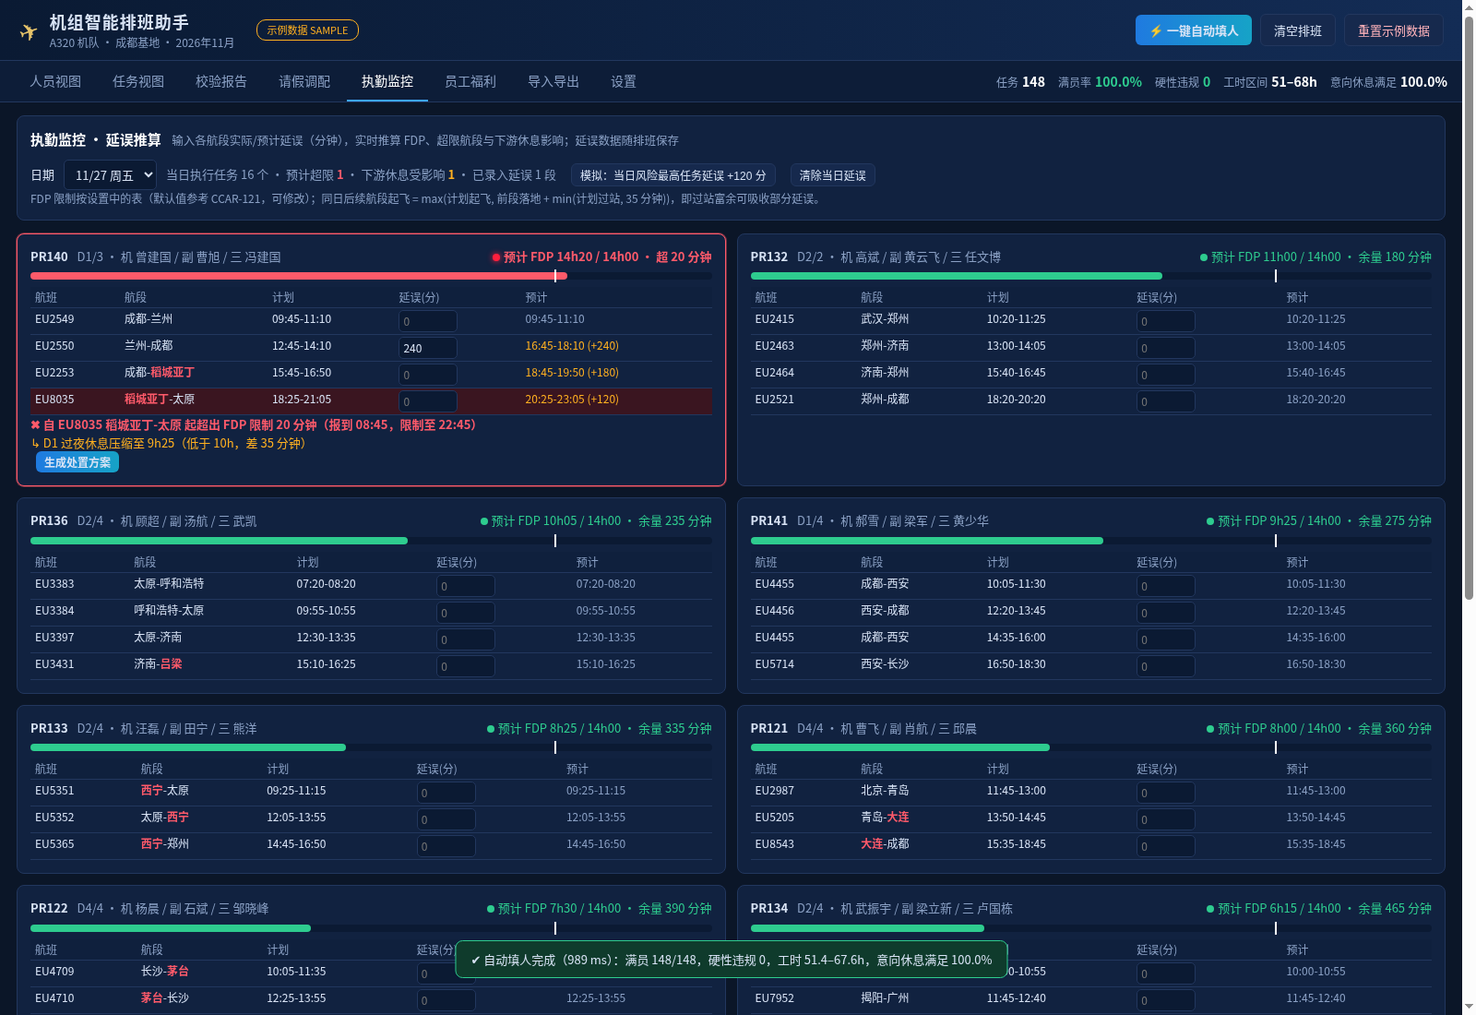
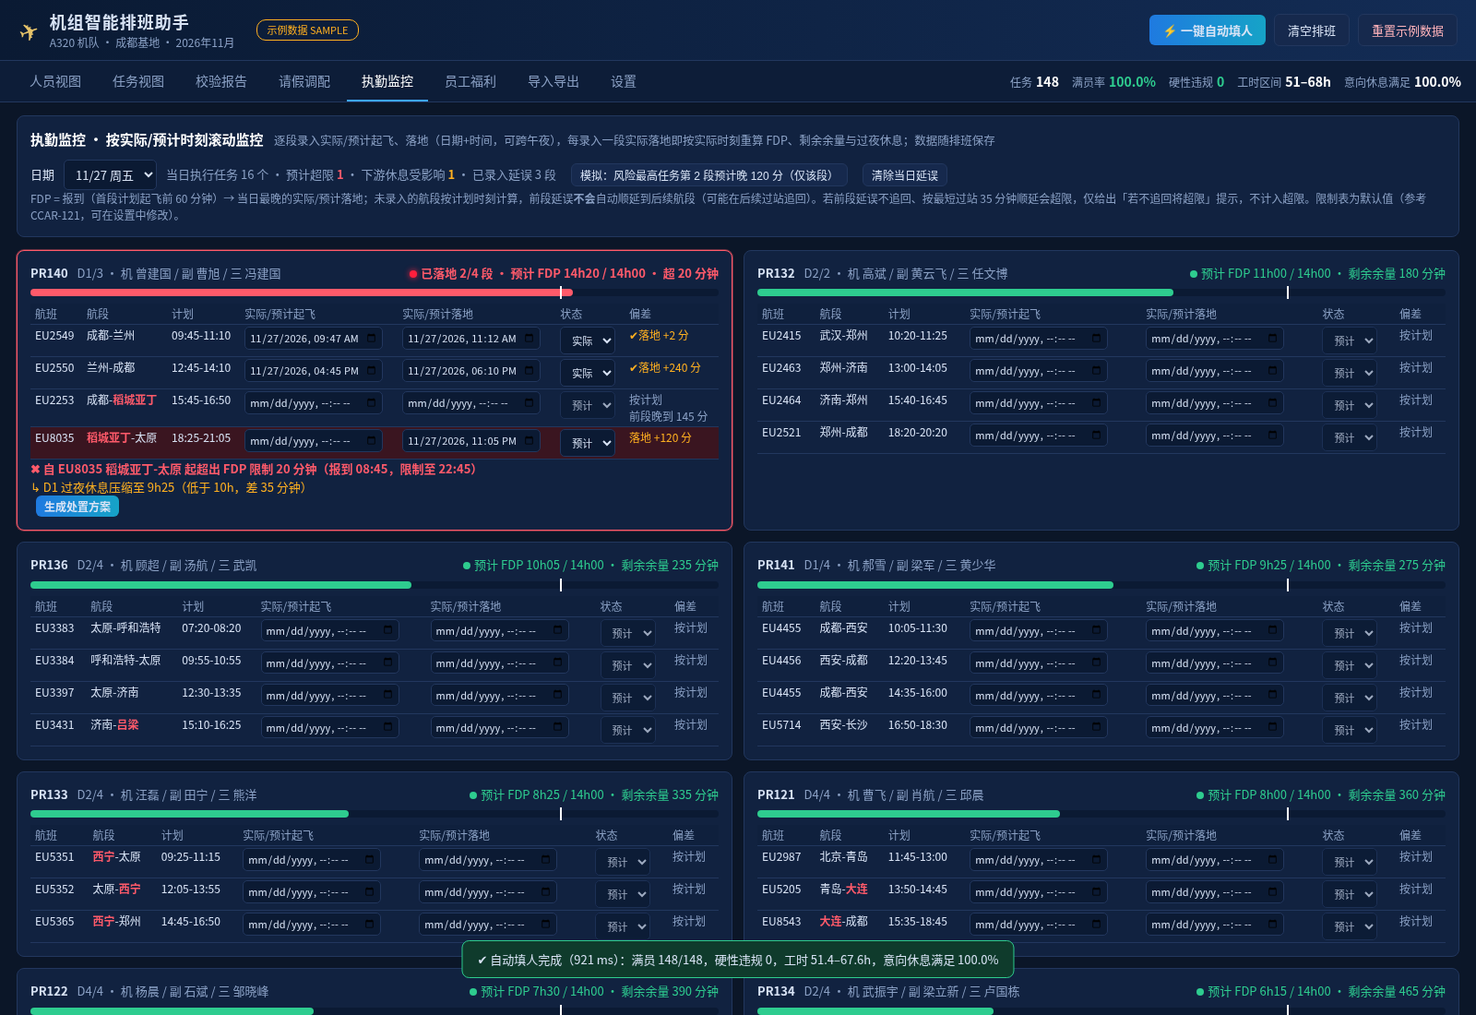
执勤监控改为按实际/预计起飞落地时刻滚动监控，不再级联延误；迁移旧延误数据

Changed region(s): [[0.0, 0.0, 1.0, 1.0]]

diff --git a/js/app.js b/js/app.js
@@ -12,7 +12,7 @@
   const CW_MIN = 6, CW_MAX = 240, BASE_CW = 150;
   const ZSTEPS = [4, 5, 6, 8, 10, 12, 15, 20, 25, 30, 40, 50, 67, 80, 90, 100, 110, 125, 150, 160];
 
-  function load() { try { const s = JSON.parse(localStorage.getItem(KEY)); if (s && s.pilots) { st = s; st.settings = Object.assign(C.defaultSettings(), st.settings); C.migrateSettings(st.settings); return; } } catch (e) {} reset(false); }
+  function load() { try { const s = JSON.parse(localStorage.getItem(KEY)); if (s && s.pilots) { st = s; st.settings = Object.assign(C.defaultSettings(), st.settings); C.migrateSettings(st.settings); C.migrateDelays(st); return; } } catch (e) {} reset(false); }
   function save() { try { localStorage.setItem(KEY, JSON.stringify(st)); } catch (e) {} }
   function reset(r) { st = C.generateSample(); lastSolveMs = null; save(); if (r) refresh(); }
   function refresh() { sum = C.summarize(st); renderKpis(); render(); save(); }
@@ -77,7 +77,7 @@
       for (const pr of idx.sched[p.id]) {
         const slot = ['C', 'F', 'T'].find(s => pr.crew[s] === p.id);
         const gap = cw >= 20 ? 2 : 0.5; const left = nw + (pr.start - 1) * cw + gap, w = Math.max(1, pr.ndays * cw - 2 * gap);
-        const rk = C.pairingRisk(pr, st, st.delays && Object.keys(st.delays).length ? st.delays : null); const rb = RISK_BADGE[rk.risk];
+        const rk = C.pairingRisk(pr, st, st.actuals && Object.keys(st.actuals).length ? st.actuals : null); const rb = RISK_BADGE[rk.risk];
         const badge = rb ? `<span class="rbadge r-${rk.risk}" title="执勤风险：${rb[1]} · D${rk.worst.d} FDP ${C.fmtH(rk.worst.fdp)} / 限制 ${C.fmtH(rk.worst.limit)} · 余量 ${rk.worst.buffer} 分钟">${rb[0]}</span>` : '';
         let inner = '';
         if (lvl === 'full') { const ch = dayChains(pr); inner = `<div class="bh">${badge}${pr.id} [${C.SLOT_NAME[slot]}] ${crewTxt(pr, m)}</div><div style="display:flex">${ch.map(c => `<div class="lg" style="width:${cw - 4}px;white-space:normal;max-height:42px">${c.html}<br><span class="mut" style="color:#b9cbe8">${c.ls.map(l => l.flt).join(' ')}</span></div>`).join('')}</div>`; }
@@ -227,24 +227,28 @@
 
   // ---------------- 执勤监控（延误 / 超执勤） ----------------
   let dutyDate = null, dutyOpts = null;
+  const p2 = n => String(n).padStart(2, '0');
+  function toDT(m) { const d = new Date(C.YEAR, C.MONTH - 1, 1, 0, m); return `${d.getFullYear()}-${p2(d.getMonth() + 1)}-${p2(d.getDate())}T${p2(d.getHours())}:${p2(d.getMinutes())}`; }
+  function fromDT(v) { if (!v) return null; const t = new Date(v); if (isNaN(t)) return null; return Math.round((t - new Date(C.YEAR, C.MONTH - 1, 1)) / 60000); }
   function rDuty() {
-    const S = st.settings; st.delays = st.delays || {};
+    const S = st.settings; C.migrateDelays(st); const A = st.actuals;
     if (!dutyDate) { const r = C.fdpRiskSummary(st).rows[0]; dutyDate = r ? r.date : 1; }
     const mon = C.dutyMonitor(st, dutyDate); const m = pm();
     const nEx = mon.filter(x => x.exceed).length, nDn = mon.filter(x => x.downstream.length).length;
-    const dl = Object.keys(st.delays).length;
-    let h = `<div class="panel"><h3>执勤监控 · 延误推算 <small>输入各航段实际/预计延误（分钟），实时推算 FDP、超限航段与下游休息影响；延误数据随排班保存</small></h3>
+    const dl = Object.keys(A).length;
+    let h = `<div class="panel"><h3>执勤监控 · 按实际/预计时刻滚动监控 <small>逐段录入实际/预计起飞、落地（日期+时间，可跨午夜），每录入一段实际落地即按实际时刻重算 FDP、剩余余量与过夜休息；数据随排班保存</small></h3>
       <div class="flex" style="flex-wrap:wrap"><span>日期</span><select id="dtD">${Array.from({ length: C.DAYS }, (_, i) => `<option value="${i + 1}" ${i + 1 === dutyDate ? 'selected' : ''}>11/${String(i + 1).padStart(2, '0')} 周${WK[dow(i + 1)]}</option>`).join('')}</select>
       <span class="mut">当日执行任务 ${mon.length} 个 · 预计超限 <b class="${nEx ? 'red' : 'okc'}">${nEx}</b> · 下游休息受影响 <b class="${nDn ? 'warnc' : 'okc'}">${nDn}</b> · 已录入延误 ${dl} 段</span>
-      <button class="btn sm" id="dtSim">模拟：当日风险最高任务延误 +120 分</button><button class="btn sm" id="dtClr">清除当日延误</button>${leaveHist.length ? `<button class="btn sm" id="dtUndo">↶ 撤销（${leaveHist.length}）</button>` : ''}</div>
-      <div class="note">FDP 限制按设置中的表（默认值参考 CCAR-121，可修改）；同日后续航段起飞 = max(计划起飞, 前段落地 + min(计划过站, ${S.minTurnMin} 分钟))，即过站富余可吸收部分延误。</div></div>`;
+      <button class="btn sm" id="dtSim">模拟：风险最高任务第 2 段预计晚 120 分（仅该段）</button><button class="btn sm" id="dtClr">清除当日延误</button>${leaveHist.length ? `<button class="btn sm" id="dtUndo">↶ 撤销（${leaveHist.length}）</button>` : ''}</div>
+      <div class="note">FDP = 报到（首段计划起飞前 ${S.reportMin} 分钟）→ 当日最晚的实际/预计落地；未录入的航段按计划时刻计算，前段延误<b>不会</b>自动顺延到后续航段（可能在后续过站追回）。若前段延误不追回、按最短过站 ${S.minTurnMin} 分钟顺延会超限，仅给出「若不追回将超限」提示，不计入超限。限制表为默认值（参考 CCAR-121，可在设置中修改）。</div></div>`;
     h += `<div class="dutyg">${mon.map(x => { const dy = x.day; const pr = x.pr; const pct = Math.min(130, dy.fdp / dy.limit * 100);
       return `<div class="panel dutyc ${x.exceed ? 'dex' : ''}"><div class="flex"><b>${pr.id}</b><span class="mut">D${dy.d}/${pr.ndays} · ${crewTxt(pr, m)}</span>
-        <span style="margin-left:auto" class="${{ over: 'red', high: 'red', med: 'warnc', low: 'okc' }[dy.risk]}"><span class="rdot r-${dy.risk}"></span>预计 FDP ${C.fmtH(dy.fdp)} / ${C.fmtH(dy.limit)} · ${dy.exceed ? '超 ' + dy.exceed + ' 分钟' : '余量 ' + dy.buffer + ' 分钟'}</span></div>
+        <span style="margin-left:auto" class="${{ over: 'red', high: 'red', med: 'warnc', low: 'okc' }[dy.risk]}"><span class="rdot r-${dy.risk}"></span>${dy.nLanded ? `已落地 ${dy.nLanded}/${dy.legs.length} 段 · ` : ''}预计 FDP ${C.fmtH(dy.fdp)} / ${C.fmtH(dy.limit)} · ${dy.exceed ? '超 ' + dy.exceed + ' 分钟' : '剩余余量 ' + dy.buffer + ' 分钟'}</span></div>
         <div class="fdpbar"><i style="width:${pct / 1.3}%" class="r-${dy.risk}"></i><b style="left:${100 / 1.3}%"></b></div>
-        <table class="dlt"><tr><th>航班</th><th>航段</th><th>计划</th><th>延误(分)</th><th>预计</th></tr>${dy.legs.map(l => `<tr class="${dy.exLeg && l.i >= dy.exLeg.i ? 'exrow' : ''}"><td>${l.leg.flt}</td><td>${apHtml(l.leg.from)}-${apHtml(l.leg.to)}</td><td>${C.fmtT(l.leg.dep)}-${C.fmtT(l.leg.arr)}</td>
-          <td><input type="number" min="0" step="5" class="dlin" data-k="${C.legKey(l.leg)}" value="${l.dly || ''}" placeholder="0"></td><td class="${l.late ? 'warnc' : 'mut'}">${C.fmtT(l.dep)}-${C.fmtT(l.arr)}${l.late ? ' (+' + l.late + ')' : ''}</td></tr>`).join('')}</table>
+        <table class="dlt"><tr><th>航班</th><th>航段</th><th>计划</th><th>实际/预计起飞</th><th>实际/预计落地</th><th>状态</th><th>偏差</th></tr>${dy.legs.map(l => { const k = C.legKey(l.leg); const a = A[k] || {}; return `<tr class="${dy.exLeg && l.arr > dy.start + dy.limit ? 'exrow' : ''}"><td>${l.leg.flt}</td><td>${apHtml(l.leg.from)}-${apHtml(l.leg.to)}</td><td>${C.fmtT(l.leg.dep)}-${C.fmtT(l.leg.arr)}</td>
+          <td><input type="datetime-local" class="atin" data-k="${k}" data-f="dep" value="${a.dep != null ? toDT(a.dep) : ''}" placeholder="${toDT(l.leg.dep)}"></td><td><input type="datetime-local" class="atin" data-k="${k}" data-f="arr" value="${a.arr != null ? toDT(a.arr) : ''}"></td><td><select class="atkind" data-k="${k}" ${l.known ? '' : 'disabled'}><option value="est" ${a.kind !== 'act' ? 'selected' : ''}>预计</option><option value="act" ${a.kind === 'act' ? 'selected' : ''}>实际</option></select></td><td class="${l.known ? (l.lateArr > 0 ? 'warnc' : 'okc') : 'mut'}">${l.known ? `${l.landed ? '✔' : ''}落地 ${l.lateArr >= 0 ? '+' : ''}${l.lateArr} 分` : '按计划'}${l.conflict ? `<div class="mut" title="前段落地晚于本段计划起飞">前段晚到 ${l.conflict} 分</div>` : ''}</td></tr>`; }).join('')}</table>
         ${dy.exLeg ? `<div class="red">✖ 自 ${dy.exLeg.leg.flt} ${C.apName(dy.exLeg.leg.from, st)}-${C.apName(dy.exLeg.leg.to, st)} 起超出 FDP 限制 ${dy.exceed} 分钟（报到 ${C.fmtT(dy.start)}，限制至 ${C.fmtT(dy.start + dy.limit)}）</div>` : ''}
+        ${dy.cascExceed ? `<div class="mut">ⓘ 若不追回将超限：前段延误按最短过站顺延，预计 ${dy.cascLeg.leg.flt} 落地 ${C.fmtT(dy.cascLeg.carr)}，超 ${dy.cascExceed} 分钟（提示，不计入超限）</div>` : ''}
         ${x.downstream.map(d => `<div class="warnc">↳ ${d.overnight ? `D${d.d} 过夜休息压缩至 ${C.fmtH(d.restAfter)}（低于 ${S.minOvernightRestH}h，差 ${d.short} 分钟）` : `${esc(m[d.pilot].name)} 下一任务 ${d.next} 前休息仅 ${C.fmtH(d.gap)}（低于 ${S.minRestH}h，差 ${d.short} 分钟）`}</div>`).join('')}
         ${x.exceed || x.downstream.length ? `<button class="btn sm ${x.exceed ? 'primary' : ''} dtGo" data-pr="${pr.id}">生成处置方案</button>` : ''}</div>`; }).join('') || '<div class="note">当日无执行任务</div>'}</div>`;
     const o = dutyOpts;
@@ -253,9 +257,10 @@
       <div class="panel"><h3>影响预览 <small>悬停/点选方案：绿=新增任务 · 橙=被调整任务 · 红虚线=移出</small></h3><div id="mgBox">${miniGantt(o.solutions[cardCtx.hover])}</div></div>`;
     $('#main').innerHTML = h;
     $('#dtD').onchange = e => { dutyDate = +e.target.value; dutyOpts = null; rDuty(); };
-    document.querySelectorAll('.dlin').forEach(i => i.onchange = () => { const v = Math.max(0, +i.value || 0); if (v) st.delays[i.dataset.k] = v; else delete st.delays[i.dataset.k]; dutyOpts = null; save(); sum = C.summarize(st); renderKpis(); rDuty(); });
-    $('#dtClr').onclick = () => { mon.forEach(x => x.day.legs.forEach(l => delete st.delays[C.legKey(l.leg)])); dutyOpts = null; save(); rDuty(); };
-    $('#dtSim').onclick = () => { const x = mon.slice().sort((a, b) => a.day.buffer - b.day.buffer)[0]; if (!x) return; const l = x.day.legs[Math.min(1, x.day.legs.length - 1)]; st.delays[C.legKey(l.leg)] = (st.delays[C.legKey(l.leg)] || 0) + 120; dutyOpts = null; save(); rDuty(); };
+    document.querySelectorAll('.atin').forEach(i => i.onchange = () => { const k = i.dataset.k; const a = A[k] = A[k] || { kind: 'est' }; const v = fromDT(i.value); if (v == null) delete a[i.dataset.f]; else a[i.dataset.f] = v; if (a.dep == null && a.arr == null) delete A[k]; dutyOpts = null; save(); sum = C.summarize(st); renderKpis(); rDuty(); });
+    document.querySelectorAll('.atkind').forEach(i => i.onchange = () => { if (A[i.dataset.k]) A[i.dataset.k].kind = i.value; save(); rDuty(); });
+    $('#dtClr').onclick = () => { mon.forEach(x => x.day.legs.forEach(l => delete A[C.legKey(l.leg)])); dutyOpts = null; save(); rDuty(); };
+    $('#dtSim').onclick = () => { const x = mon.slice().sort((a, b) => a.day.buffer - b.day.buffer)[0]; if (!x) return; const l = x.day.legs[Math.min(1, x.day.legs.length - 1)]; A[C.legKey(l.leg)] = { dep: l.dep + 120, arr: l.arr + 120, kind: 'est' }; dutyOpts = null; save(); rDuty(); };
     if ($('#dtUndo')) $('#dtUndo').onclick = undoLeave;
     document.querySelectorAll('.dtGo').forEach(b => b.onclick = () => { dutyOpts = C.fdpOptions(st, b.dataset.pr); const i = dutyOpts.solutions.findIndex(x => x.recommended);
       cardCtx = { hover: i < 0 ? 0 : i, focus: Object.values(dutyOpts.pairing.crew).filter(Boolean), days: dutyOpts.days.map(d => d.date) }; rDuty(); const e = $('#dtSol'); if (e) e.scrollIntoView(); });

diff --git a/js/core.js b/js/core.js
@@ -744,29 +744,48 @@
     const row = T.find(r => h >= r.from && h < r.to) || T[T.length - 1]; const c = nLegs <= 4 ? 0 : nLegs === 5 ? 1 : nLegs === 6 ? 2 : 3;
     return row.lim[c] * 60;
   }
-  // 逐日 FDP（含延误推算）。delays: { legKey: 分钟 }；pr.freshAt=legKey 表示该段起新机组按实际起飞前报到
-  function fdpDays(pr, st, delays) {
-    delays = delays || {}; const S = st.settings; const rep = S.reportMin || 60, rel = S.releaseMin || 30, turn = S.minTurnMin || 35;
-    const out = []; let prev = null;
-    pr.legs.forEach((l, i) => { const dly = Math.max(0, +delays[legKey(l)] || 0);
-      let dep = l.dep + dly;
-      if (prev && prev.leg.d === l.d) dep = Math.max(dep, prev.arr + Math.min(turn, l.dep - prev.leg.arr));
-      const x = { i, leg: l, dly, dep, arr: dep + (l.arr - l.dep), late: dep - l.dep };
+  // 逐日 FDP（按实际/预计时刻，不做延误级联）。
+  // acts: { legKey: { dep?:分钟, arr?:分钟, kind:'est'|'act' } }（分钟自 11/01 00:00，可跨午夜）。
+  // 未录入的航段按计划时刻；录入起飞未录落地时，落地 = 起飞 + 计划轮挡。pr.freshAt=legKey：新机组自该段（实际/预计）起飞前报到。
+  // 另算“若不追回”的级联推算（cascEnd/cascExceed），仅作提示，不计入超限。
+  function fdpDays(pr, st, acts) {
+    acts = acts || {}; const S = st.settings; const rep = S.reportMin || 60, rel = S.releaseMin || 30, turn = S.minTurnMin || 35;
+    const out = []; let prevC = null;
+    pr.legs.forEach((l, i) => { const a = acts[legKey(l)] || {}; const blk = l.arr - l.dep;
+      const dep = a.dep != null ? a.dep : l.dep; const arr = a.arr != null ? a.arr : (a.dep != null ? a.dep + blk : l.arr);
+      const known = a.dep != null || a.arr != null;
+      // 级联（不追回）推算：录入值优先，否则受前段级联落地 + 最短过站约束
+      let cdep = known ? dep : l.dep; if (!known && prevC && prevC.leg.d === l.d) cdep = Math.max(cdep, prevC.carr + Math.min(turn, l.dep - prevC.leg.arr));
+      const carr = known ? arr : cdep + blk;
+      const x = { i, leg: l, dep, arr, known, kind: known ? (a.kind || 'est') : 'plan', landed: a.arr != null && a.kind === 'act', departed: a.dep != null && a.kind === 'act',
+        late: dep - l.dep, lateArr: arr - l.arr, cdep, carr, conflict: prevC && prevC.leg.d === l.d && dep < prevC.arr && !known ? prevC.arr - dep : 0 };
+      x.dly = Math.max(0, x.late); // 兼容
       let day = out[out.length - 1]; if (!day || day.d !== l.d) { day = { d: l.d, legs: [] }; out.push(day); }
-      day.legs.push(x); prev = x; });
+      day.legs.push(x); prevC = x; });
     out.forEach((dy, k) => { const f = dy.legs[0];
       dy.date = Math.floor(f.leg.dep / DAY) + 1;
       dy.start = (pr.freshAt && pr.freshAt === legKey(f.leg)) ? f.dep - rep : f.leg.dep - rep;
-      dy.end = dy.legs[dy.legs.length - 1].arr; dy.planEnd = dy.legs[dy.legs.length - 1].leg.arr;
+      dy.end = Math.max(...dy.legs.map(x => x.arr)); dy.planEnd = dy.legs[dy.legs.length - 1].leg.arr;
+      dy.cascEnd = Math.max(...dy.legs.map(x => x.carr));
       dy.fdp = dy.end - dy.start; dy.planFdp = dy.planEnd - (f.leg.dep - rep);
       dy.limit = fdpLimit(st, f.leg.dep - rep, dy.legs.length); dy.buffer = dy.limit - dy.fdp; dy.planBuffer = dy.limit - dy.planFdp;
       dy.exceed = Math.max(0, -dy.buffer);
+      dy.cascExceed = dy.exceed ? 0 : Math.max(0, dy.cascEnd - dy.start - dy.limit);
+      dy.cascLeg = dy.cascExceed ? dy.legs.find(x => x.carr > dy.start + dy.limit) : null;
       dy.exLeg = dy.exceed ? dy.legs.find(x => x.arr > dy.start + dy.limit) : null;
+      dy.nLanded = dy.legs.filter(x => x.landed).length; dy.nKnown = dy.legs.filter(x => x.known).length;
       dy.risk = dy.buffer < 0 ? 'over' : dy.buffer < (S.fdpRiskHigh || 60) ? 'high' : dy.buffer < (S.fdpRiskMed || 120) ? 'med' : 'low';
       dy.planRisk = dy.planBuffer < 0 ? 'over' : dy.planBuffer < (S.fdpRiskHigh || 60) ? 'high' : dy.planBuffer < (S.fdpRiskMed || 120) ? 'med' : 'low';
       const nx = out[k + 1]; if (nx) { const req = (S.minOvernightRestH || 10) * 60; dy.restAfter = (nx.legs[0].dep - rep) - (dy.end + rel); dy.planRest = (nx.legs[0].leg.dep - rep) - (dy.planEnd + rel);
         dy.restShort = dy.restAfter < dy.planRest ? Math.max(0, req - dy.restAfter) : 0; dy.planRestShort = Math.max(0, req - dy.planRest); } });
     return out;
+  }
+  // 旧版 st.delays {legKey: 分钟} → st.actuals：仅对该段本身设预计起飞/落地（不再级联）
+  function migrateDelays(st) {
+    if (!st.delays) { st.actuals = st.actuals || {}; return st; }
+    st.actuals = st.actuals || {}; const legs = {}; st.pairings.forEach(p => p.legs.forEach(l => legs[legKey(l)] = l));
+    Object.keys(st.delays).forEach(k => { const v = +st.delays[k] || 0; const l = legs[k]; if (l && v > 0 && !st.actuals[k]) st.actuals[k] = { dep: l.dep + v, arr: l.arr + v, kind: 'est' }; });
+    delete st.delays; return st;
   }
   const RISK_ORDER = { over: 0, high: 1, med: 2, low: 3 };
   function pairingRisk(pr, st, delays) { const ds = fdpDays(pr, st, delays); const w = ds.slice().sort((a, b) => RISK_ORDER[delays ? a.risk : a.planRisk] - RISK_ORDER[delays ? b.risk : b.planRisk] || a.buffer - b.buffer)[0];
@@ -788,7 +807,7 @@
     return out;
   }
   function dutyMonitor(st, date) {
-    const delays = st.delays || {}; const idx = buildIndex(st); const res = [];
+    const delays = st.actuals || {}; const idx = buildIndex(st); const res = [];
     for (const pr of st.pairings) { const ds = fdpDays(pr, st, delays); const dy = ds.find(x => x.date === date); if (!dy) continue;
       const dn = downstream(st, pr, ds, idx).filter(x => !x.overnight || x.d >= dy.d);
       res.push({ pr, day: dy, days: ds, downstream: dn, exceed: ds.some(x => x.exceed > 0 && x.date >= date) }); }
@@ -804,7 +823,7 @@
     pr.freshAt = legKey(pr.legs[0]); return { A: null, B: pr };
   }
   function fdpOptions(st, prId, opt) {
-    opt = opt || {}; const t0 = Date.now(); const delays = st.delays || {};
+    opt = opt || {}; const t0 = Date.now(); const delays = st.actuals || {};
     const pr0 = st.pairings.find(p => p.id === prId); if (!pr0) return null;
     const ds0 = fdpDays(pr0, st, delays); const idx0 = buildIndex(st);
     const ex = ds0.find(x => x.exceed > 0) || null; const dn0 = downstream(st, pr0, ds0, idx0);
@@ -853,7 +872,7 @@
     sol.fdpAfter = ex; sol.restAfterV = rv; sol.score = Math.round((sol.score + ex * 800 + rv * 300) * 10) / 10;
   }
 
-  return { fdpDays, fdpLimit, fdpRiskSummary, pairingRisk, dutyMonitor, fdpOptions, splitPairing, legKey, fmtH, LEG_COLS, defaultFdpTable, leaveOptions, migrateSettings, YEAR, MONTH, DAYS, DAY, RANKS, RANK_VAL, NEW_CAPT, INSTR, GROUPS, AIRPORTS, CAT_DESC, AUTH_CATS,
+  return { migrateDelays, fdpDays, fdpLimit, fdpRiskSummary, pairingRisk, dutyMonitor, fdpOptions, splitPairing, legKey, fmtH, LEG_COLS, defaultFdpTable, leaveOptions, migrateSettings, YEAR, MONTH, DAYS, DAY, RANKS, RANK_VAL, NEW_CAPT, INSTR, GROUPS, AIRPORTS, CAT_DESC, AUTH_CATS,
     isFO, isCaptClass, isInstr, isNew, rankGroup, seatOK, catOK, apName, apCat, needsAuth, isSpecial,
     generateSample, defaultSettings, pairingHours, report, release, daysTouched, isNightLeg, fmtT, specialAirportsOf,
     crewIssue, personCheck, buildIndex, autoFill, assignStandby, dayStatus, restGaps, freeRuns, validate, summarize, stats, candidates, applyLeave, shareFor, SLOT_NAME, slotRankOK, blockMin };

diff --git a/css/style.css b/css/style.css
@@ -136,9 +136,9 @@ details summary{cursor:pointer;color:var(--mut)}
 .rdot{display:inline-block;width:8px;height:8px;border-radius:50%;margin-right:4px;background:#2ecc8f}.rdot.r-med{background:var(--warn)}.rdot.r-high{background:#ff5a6a}.rdot.r-over{background:#ff1f3d;box-shadow:0 0 6px #ff1f3d}
 .fdpc{font-size:11px;white-space:nowrap}
 .fdpt td,.fdpt th{padding:3px 6px}.fdpt input{width:60px}
-.dutyg{display:grid;grid-template-columns:repeat(auto-fill,minmax(520px,1fr));gap:12px}
+.dutyg{display:grid;grid-template-columns:repeat(auto-fill,minmax(720px,1fr));gap:12px}
 .dutyc{margin:0}.dutyc.dex{border-color:#ff5a6a;box-shadow:0 0 0 1px rgba(255,90,106,.4)}
 .fdpbar{position:relative;height:8px;background:#0b1a33;border-radius:4px;margin:8px 0}.fdpbar i{position:absolute;left:0;top:0;bottom:0;border-radius:4px;background:#2ecc8f}.fdpbar i.r-med{background:var(--warn)}.fdpbar i.r-high,.fdpbar i.r-over{background:#ff5a6a}
 .fdpbar b{position:absolute;top:-3px;bottom:-3px;width:2px;background:#fff}
-.dlt td,.dlt th{padding:2px 5px;font-size:12px}.dlt input{width:64px;padding:2px 4px}.dlt tr.exrow td{background:#3a1520}
+.dlt td,.dlt th{padding:2px 5px;font-size:12px}.dlt input{width:150px;padding:2px 4px;font-size:11px}.dlt select{font-size:11px}.dlt tr.exrow td{background:#3a1520}
 .ttag.spt{background:#0f4a78;color:#9fd4ff}

diff --git a/README.md b/README.md
@@ -112,6 +112,6 @@ screenshots/*.png   各主要视图截图（供 PPT）
 
 - FDP = 当日首段计划起飞前 60 分钟报到 → 末段落地；扩编机组可选统一限制（默认 16h，关闭）。
 - **计划风险**：延误余量 = 限制 − 计划 FDP；<60 分钟 高、<120 分钟 中、其余 低（阈值可配）。任务视图「执勤风险」列与「执勤高/中风险」筛选、人员视图甘特条带 ⚠/◔/⛔ 标记与描边、校验报告「执勤风险」面板（含计划过夜休息 <10h 提示）。计划 FDP 超限记为硬性违规「执勤期超限」。
-- **执勤监控页**：选日期，逐航段录入实际/预计延误（或一键模拟 +120 分），后续航段按「max(计划起飞, 前段落地+min(计划过站,35 分))」推算；显示预计 FDP/限制、从哪一段起超限多少分钟、过夜休息压缩（<10h）与机组下一任务前休息不足（<12h）。
+- **执勤监控页（按实际/预计时刻滚动监控）**：选日期，逐航段录入实际/预计起飞、落地（日期+时间，可跨午夜，状态 预计/实际）。预计 FDP = 报到 → 当日最晚的实际/预计落地；未录入航段按计划时刻，**前段延误不级联到后续航段**（可在过站追回）。若前段延误不追回、按最短过站 35 分钟顺延会超限，仅显示「ⓘ 若不追回将超限」提示（不计入超限）。每录入一段实际落地即重算超限、剩余余量（显示「已落地 n/m 段」）与过夜休息（<10h）及下一任务前休息（<12h）。「模拟」按钮只给风险最高任务的第 2 段设预计起飞/落地 +120 分。旧版 `delays`（分钟）在加载时迁移为该段自身的预计起飞/落地（`migrateDelays`）。
 - **处置方案（3–5 张卡片）**：在成都基地出发的航段处拆分、由新机组接手（整组更换即在首段前拆分），新机组按 调用备份 / 节奏最优 / 工时均衡 / 链式 / 备选 生成；原机组受影响的后续任务一并补位；始终附「取消/调整超限航段（人工处理）」兜底卡并列出阻断原因。卡片含人员与任务前后、每人小时（≤90h）、基尼变化、意向休息、剩余备份、执勤/休息结果和合规检查；悬停预览、一键应用、与请假调配共享撤销历史。
-- 示例场景：11/27 PR140 D1 第 2 段 EU2550 兰州-成都延误 240 分钟 → 预计 FDP 14h20 > 14h00，自 EU8035 稻城亚丁-太原起超 20 分钟，D1 过夜休息压缩至 9h25；推荐「拆分换组@成都 · 节奏最优」：自 15:45 成都起由新机组执行 PR140-B，超限 0、硬性违规 0。
+- 示例场景（11/27 PR140 D1，报到 08:45，限制 14h00 至 22:45）：① 录入 EU2550 兰州-成都实际 16:45 起飞 / 18:10 落地（晚 240 分）→ 预计 FDP 仍按计划 12h20、剩余余量 100 分钟，另提示「若不追回将超限：EU8035 落地 23:05，超 20 分钟」；② 录入 EU8035 稻城亚丁-太原预计落地 23:05 → 预计 FDP 14h20，超 20 分钟，过夜休息压缩至 9h25 → 生成处置方案，推荐「拆分换组@成都 · 节奏最优」（自 15:45 成都起新机组执行 PR140-B，超限 0、硬性违规 0；若 EU8035 仍预计 23:05 落地，新机组过夜休息同样偏短，卡片会标出休息问题 1 项，需运控协调次日报到）。
